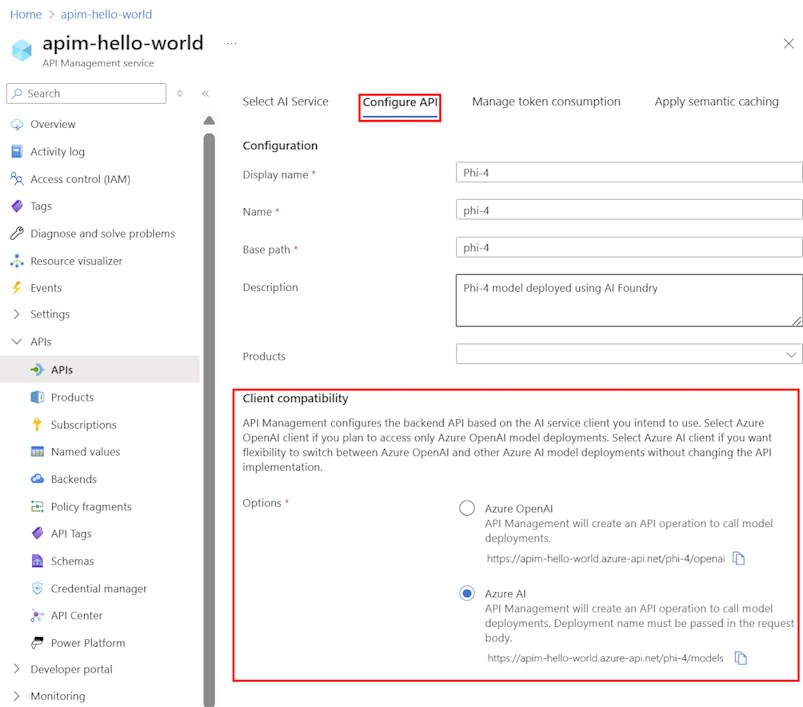
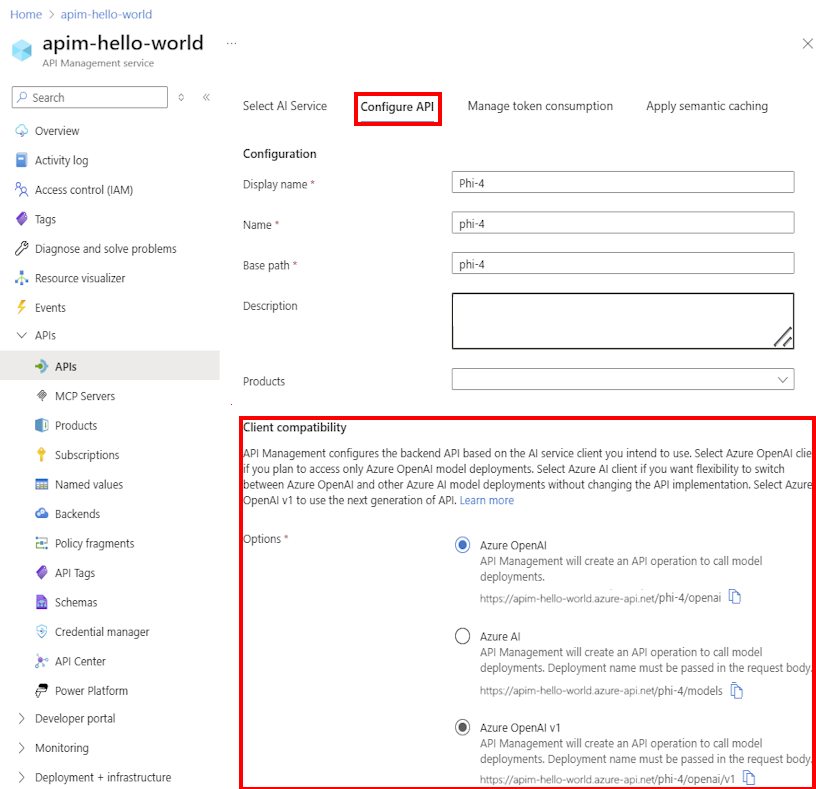
[APIM] Update azure-ai-foundry-api article

diff --git a/articles/api-management/azure-ai-foundry-api.md b/articles/api-management/azure-ai-foundry-api.md
@@ -5,7 +5,7 @@ ms.service: azure-api-management
 author: dlepow
 ms.author: danlep
 ms.topic: how-to
-ms.date: 10/07/2025
+ms.date: 03/25/2026
 ms.update-cycle: 180-days
 ms.collection: ce-skilling-ai-copilot
 ms.custom: template-how-to, build-2024
@@ -24,7 +24,7 @@ Learn more about managing AI APIs in API Management:
 
 ## Client compatibility options
 
-API Management supports two client compatibility options for AI APIs from Microsoft Foundry. When you import the API using the wizard, choose the option suitable for your model deployment. The option determines how clients call the API and how the API Management instance routes requests to the Foundry tool.
+API Management supports the following client compatibility options for AI APIs from Microsoft Foundry. When you import the API using the wizard, choose the option suitable for your model deployment. The option determines how clients call the API and how the API Management instance routes requests to the Foundry tool.
 
 * **Azure OpenAI** - Manage Azure OpenAI in Microsoft Foundry model deployments. 
 
@@ -34,11 +34,19 @@ API Management supports two client compatibility options for AI APIs from Micros
 
     Clients call the deployment at a `/models` endpoint such as `/my-model/models/chat/completions`. Deployment name is passed in the request body. Use this option if you want flexibility to switch between models exposed through the Azure AI Model Inference API and those deployed in Azure OpenAI in Foundry Models.
 
+* **Azure OpenAI v1** - Manage Azure OpenAI in Microsoft Foundry model deployments, using the [Azure OpenAI API version 1](/azure/foundry/openai/api-version-lifecycle). 
+
+    Clients call the deployment at an Azure OpenAI v1 model endpoint such as `my-model/models/chat/completions`. Deployment name is passed in the request body. 
+
 ## Prerequisites
 
 - An existing API Management instance. [Create one if you haven't already](get-started-create-service-instance.md).
 
 - A Foundry tool in your subscription with one or more models deployed. Examples include models deployed in Microsoft Foundry or Azure OpenAI.
+
+- If you want to enable semantic caching for the API, see [Enable semantic caching of responses](azure-openai-enable-semantic-caching.md) for prerequisites.
+
+- If you want to enforce content safety checks on the API, see [Enforce content safety checks on LLM requests](llm-content-safety-policy.md) for prerequisites.
 
 ## Import Microsoft Foundry API using the portal
 
@@ -46,7 +54,7 @@ Use the following steps to import an AI API to API Management.
 
 When you import the API, API Management automatically configures:
 
-* Operations for each of the API's REST API endpoints
+* Operations for each of the API's REST API endpoints.
 * A system-assigned identity with the necessary permissions to access the Foundry tool deployment.
 * A [backend](backends.md) resource and a [set-backend-service](set-backend-service-policy.md) policy that direct API requests to the Azure AI Services endpoint.
 * Authentication to the backend using the instance's system-assigned managed identity.
@@ -54,7 +62,7 @@ When you import the API, API Management automatically configures:
 
 To import a Microsoft Foundry API to API Management:
 
-1. In the [Azure portal](https://portal.azure.com), navigate to your API Management instance.
+1. In the [Azure portal](https://portal.azure.com), go to your API Management instance.
 1. In the left menu, under **APIs**, select **APIs** > **+ Add API**.
 1. Under **Create from Azure resource**, select **Microsoft Foundry**.
 
@@ -68,9 +76,10 @@ To import a Microsoft Foundry API to API Management:
     1. Enter a **Display name** and optional **Description** for the API.
     1. In **Base path**, enter a path that your API Management instance uses to access the deployment endpoint.
     1. Optionally select one or more **Products** to associate with the API.  
-    1. In **Client compatibility**, select either of the following based on the types of client you intend to support. See [Client compatibility options](#client-compatibility-options) for more information.
+    1. In **Client compatibility**, select one of the following based on the types of client you intend to support. See [Client compatibility options](#client-compatibility-options) for more information.
         * **Azure OpenAI** - Select this option if your clients only need to access Azure OpenAI in Microsoft Foundry model deployments.
-        * **Azure AI** - Select this option if your clients need to access other models in Microsoft Foundry. 
+        * **Azure AI** - Select this option if your clients need to access other models in Microsoft Foundry.
+        * **Azure OpenAI v1** - Select this option if you want to use the Azure OpenAI API version 1 with your Foundry model deployments. 
     1. Select **Next**.
 
         :::image type="content" source="media/azure-ai-foundry-api/client-compatibility.png" alt-text="Screenshot of Microsoft Foundry API configuration in the portal.":::
